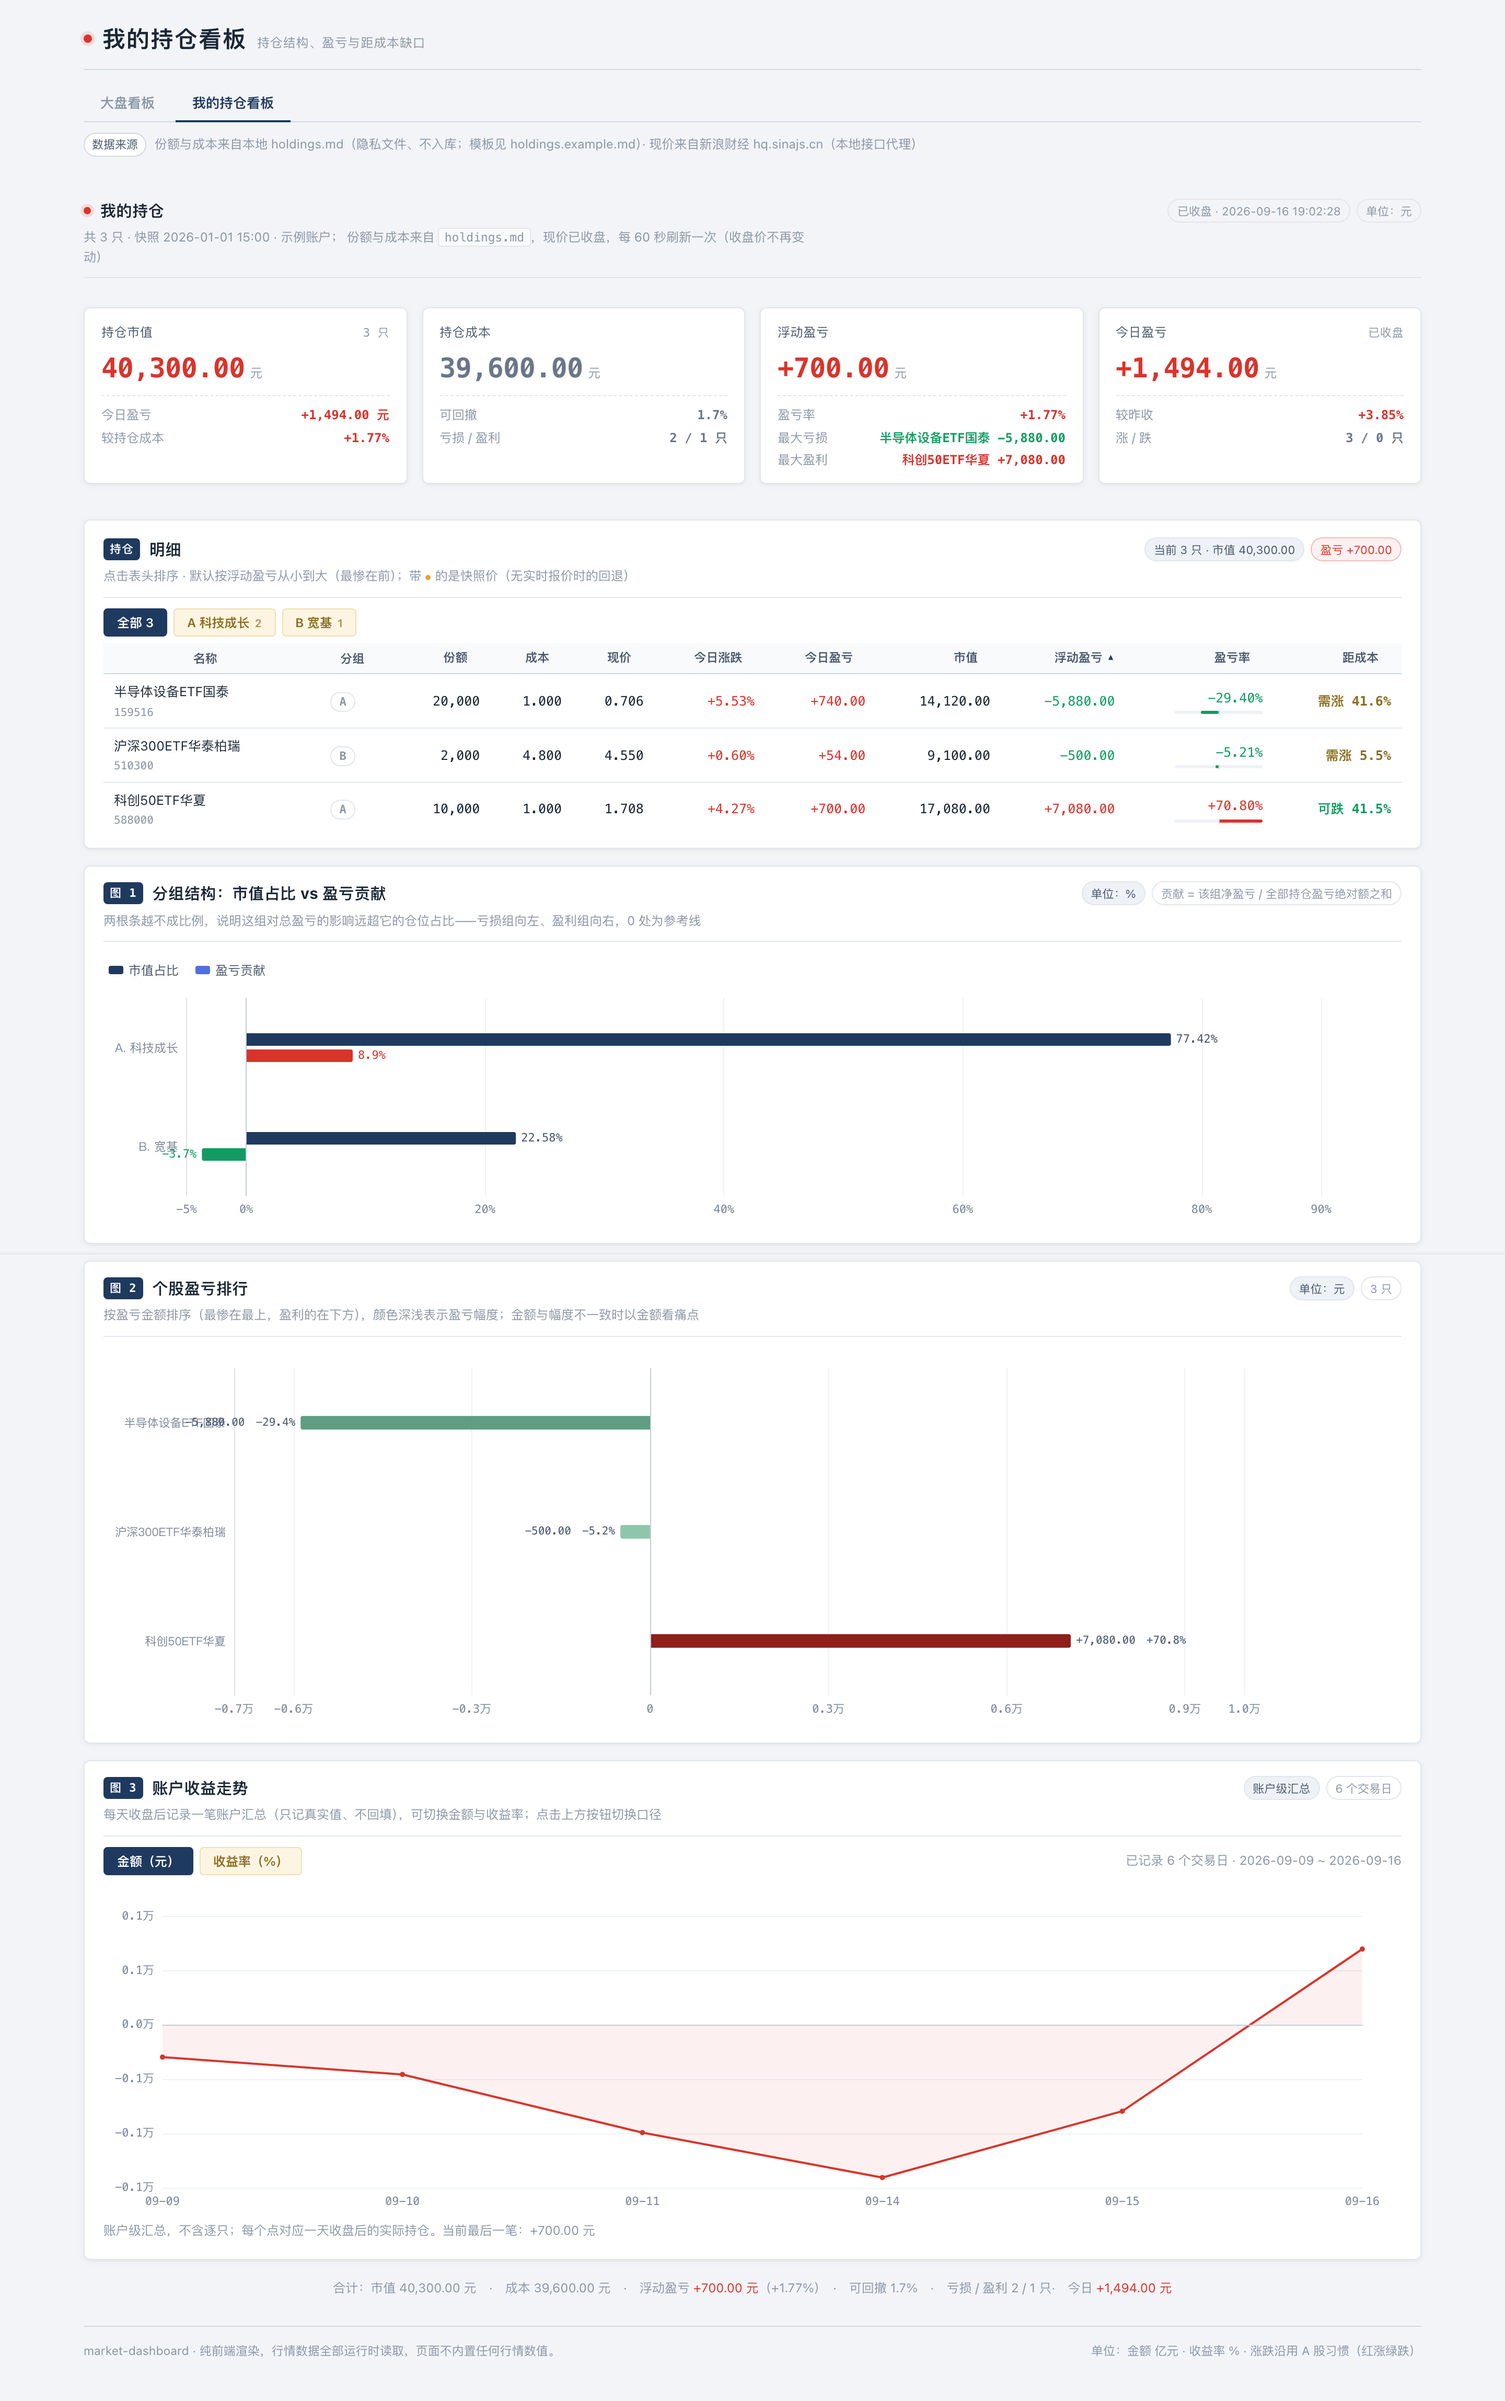
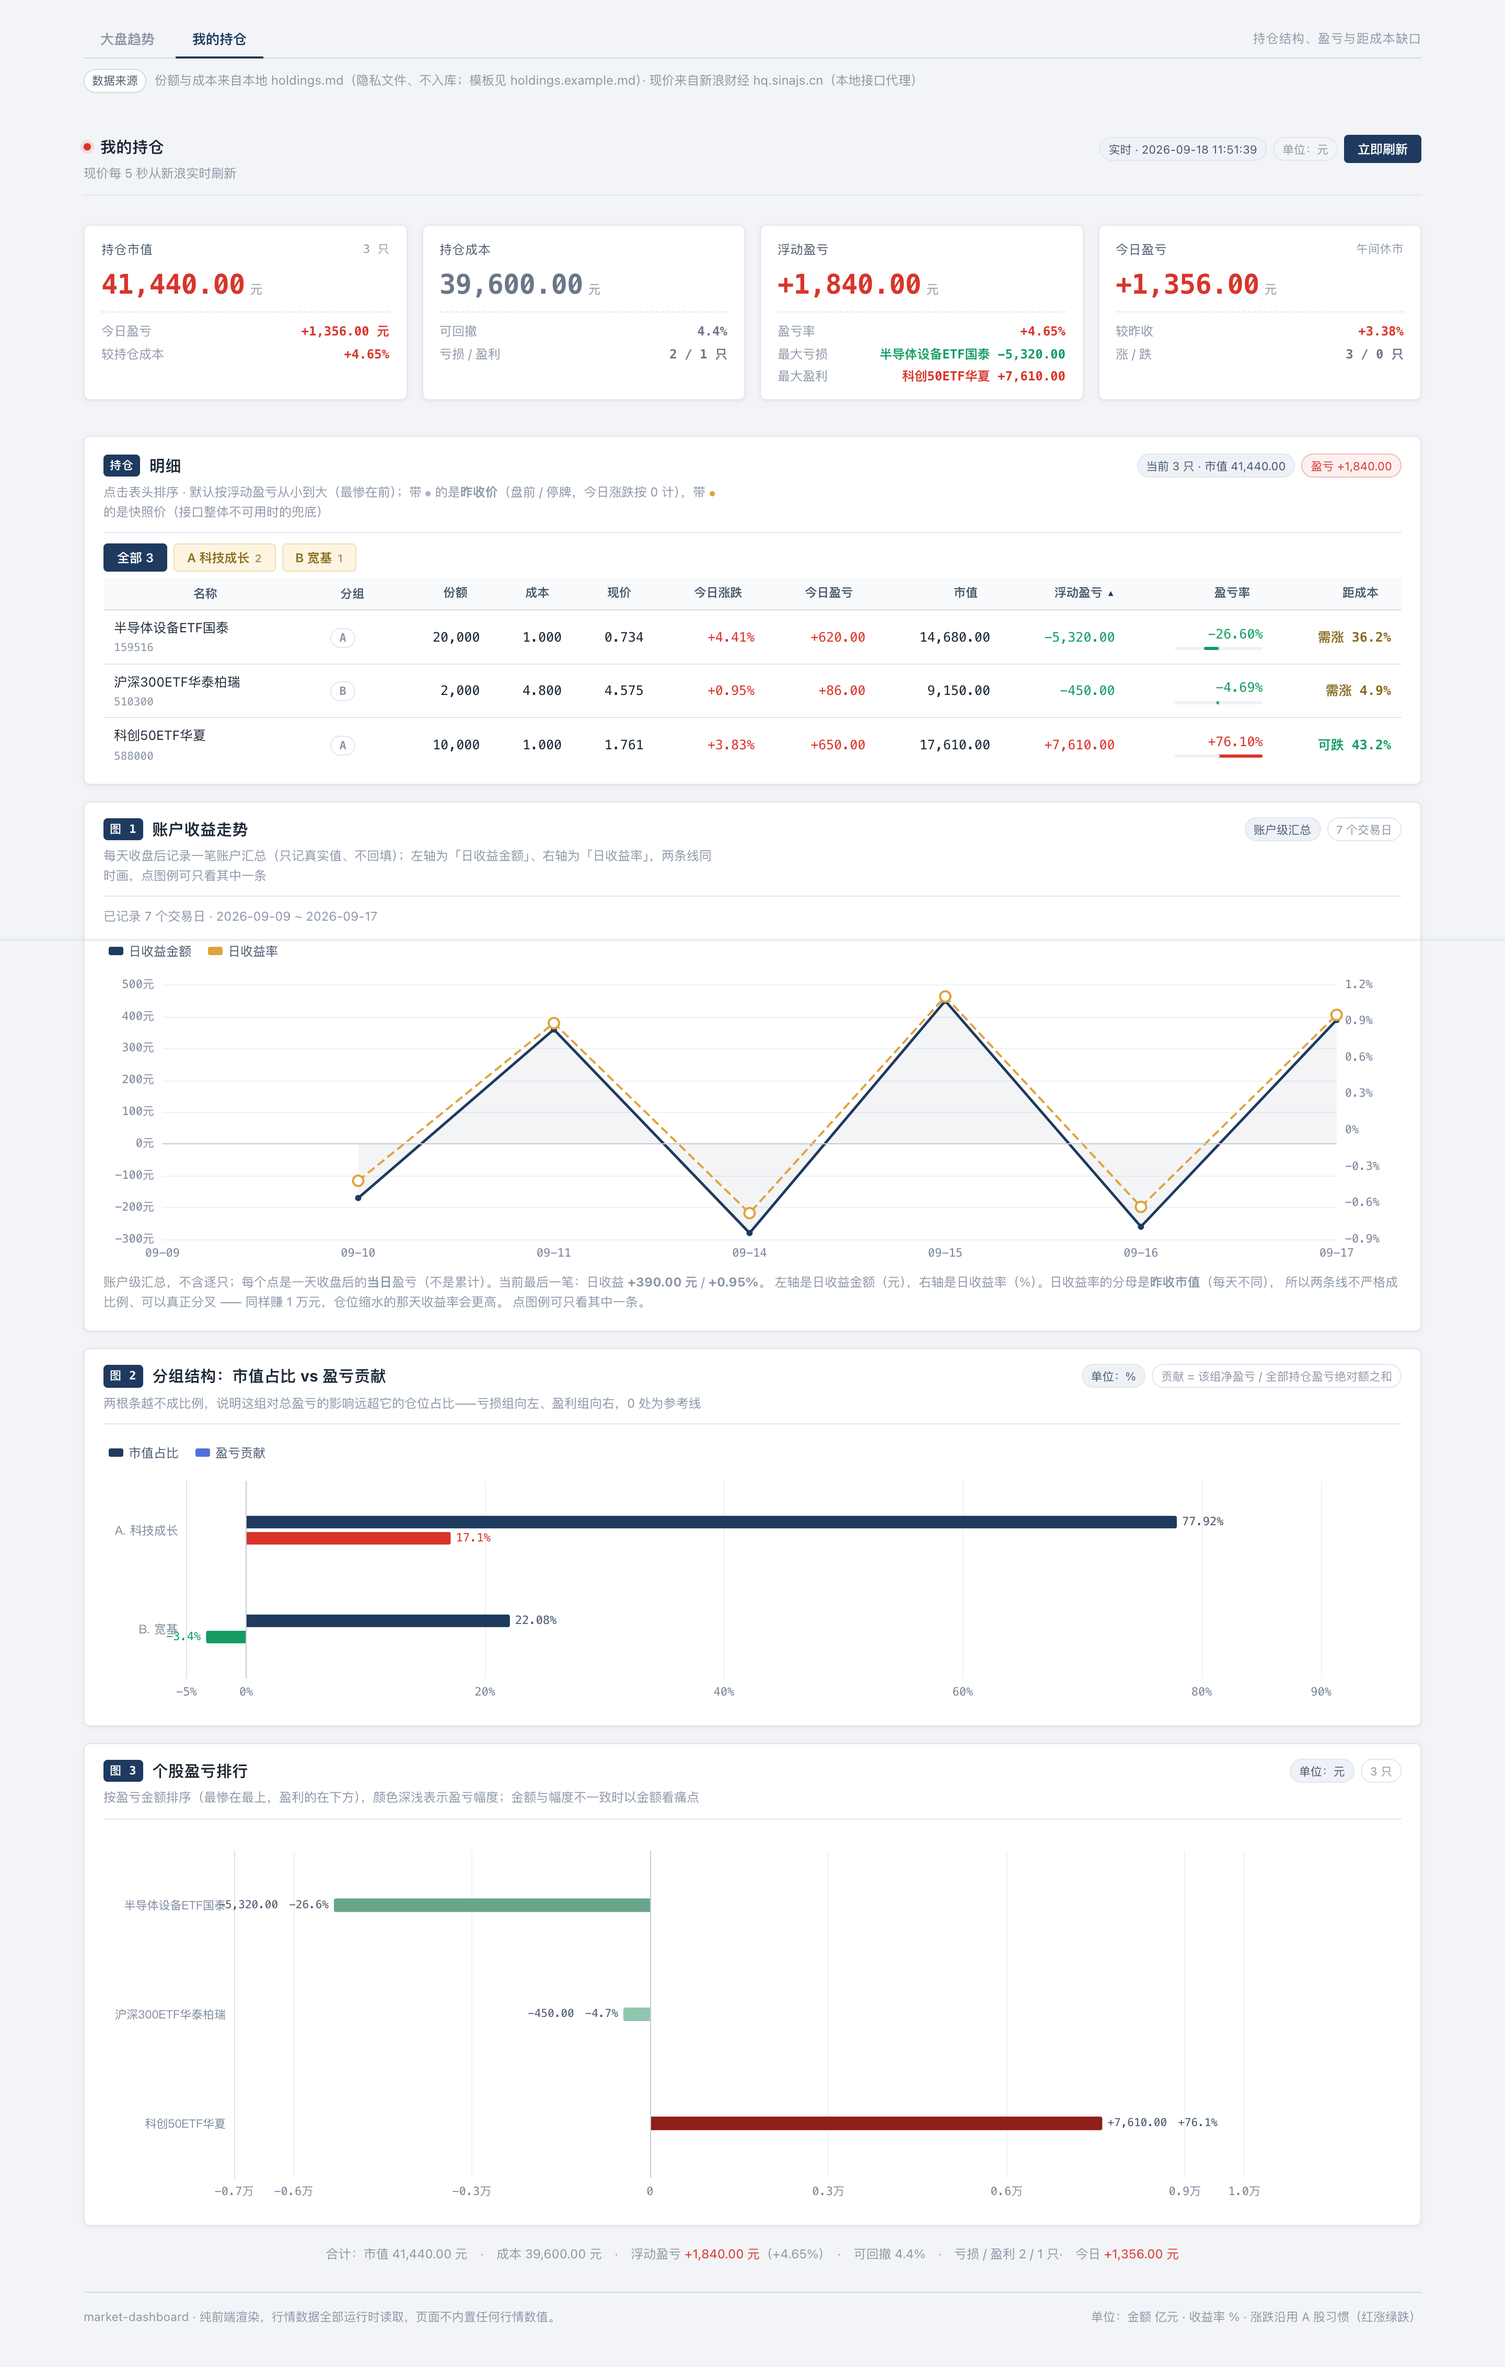
docs(README): 更新看板截图与子项目 README 反映最新现状（8卡实时行情/QVIX/快讯坞/6图）

diff --git a/README.md b/README.md
@@ -10,7 +10,7 @@
 
 | 路径 | 说明 |
 |---|---|
-| `market-dashboard/` | 本地看板（React + Vite + ECharts）。两个视图：大盘看板 / 我的持仓看板 |
+| `market-dashboard/` | 本地看板（React + Vite + ECharts）。两个视图：大盘趋势 / 我的持仓 |
 | `2026-09-15-A股前瞻报告.md` | 研判报告：《明日A股研判：AI硬件的第二次定价》 |
 | `research-2026-09-14-market-facts.md` | 事实核查底稿（所有数值标时点与出处，未查到就写「未查到」） |
 | `calibration-log.md` | 校准日志·原始层（**本地，不入库**）——每次判断 + 置信度 + 证伪条件 + 事后回填评分与归因 |
@@ -36,23 +36,23 @@ PORT=5190 npm start # 端口被占时换端口
 
 唯一硬前置是 **Node `^20.19.0 || >=22.12.0`**；看板本身**不需要 Python、不需要联网**。
 
-- **大盘看板**：底部固定指数条（上证/深成/创业板/科创50/北证50）+ 实时行情面板（A50 / KOSPI / 纳指期货，带日内迷你分时）+ 4 张摘要卡 + 5 张日频折线图
-- **我的持仓看板**：4 张总览卡 + 明细表（可排序、分组筛选、以 0 为中心的发散微条）+ 分组结构图 + 个股盈亏排行 + **账户收益走势**（每天收盘后记录一笔，只记真实值、不回填）
+- **大盘趋势**：底部固定指数条（上证/深成/创业板/科创50/北证50）+ 8 张实时报价卡（含黄金/白银/WTI/QVIX，带日内迷你分时）+ 趋势状态横幅 + 4 张摘要卡 + 6 张日频图
+- **我的持仓**：4 张总览卡 + 明细表（可排序、分组筛选、以 0 为中心的发散微条）+ **账户收益走势** + 分组结构图 + 个股盈亏排行（每天收盘后记录一笔收益，只记真实值、不回填）
 
 完整设计、数据口径与边界见 **[`market-dashboard/README.md`](market-dashboard/README.md)**。
 
 ### 界面
 
-**大盘看板** —— 底部固定指数条（上证/深成/创业板/科创50/北证50）+ 实时行情面板（A50 / KOSPI / 纳指期货，带日内迷你分时）+ 4 张摘要卡 + 5 张日频折线图：
+**大盘趋势** —— 底部固定指数条（上证/深成/创业板/科创50/北证50）+ 8 张实时报价卡（A50 / KOSPI / 纳指期货 / 恒生科技 / COMEX 黄金 / COMEX 白银 / WTI 原油 / QVIX，带日内迷你分时）+ 趋势状态横幅 + 4 张摘要卡 + 6 张日频图：
 
-![大盘看板](img/大盘看板.png)
+![大盘趋势](img/大盘看板.png)
 
-**我的持仓看板** —— 4 张总览卡 + 明细表（可排序、分组筛选、以 0 为中心的发散微条）+ 分组结构图 + 个股盈亏排行 + 账户收益走势（每天收盘后自动记一笔）+ 底部合计条：
+**我的持仓** —— 4 张总览卡 + 明细表（可排序、分组筛选、以 0 为中心的发散微条）+ 账户收益走势 + 分组结构图 + 个股盈亏排行 + 底部合计条：
 
-![我的持仓看板](img/持仓看板示例.png)
+![我的持仓](img/持仓看板示例.png)
 
 > 持仓看板这张用的是 `holdings.example.md` 的**示例数据**（3 只持仓，份额与成本全是编造的）。
-> 图 3 的收益记录同样是**为截图造出来的示例**（示例份额 × 真实收盘价，共 6 个交易日）——
+> 账户收益走势同样是**为截图造出来的示例**（成本 39,600 元、市值围绕 41,000 元合成 7 个交易日）——
 > 实际使用中它从零开始逐日累积，**不回填历史**。
 > **真实持仓的截图请勿入库** —— 见文末「隐私」；`.gitignore` 已把 `img/持仓看板.png` 挡在外面。
 
